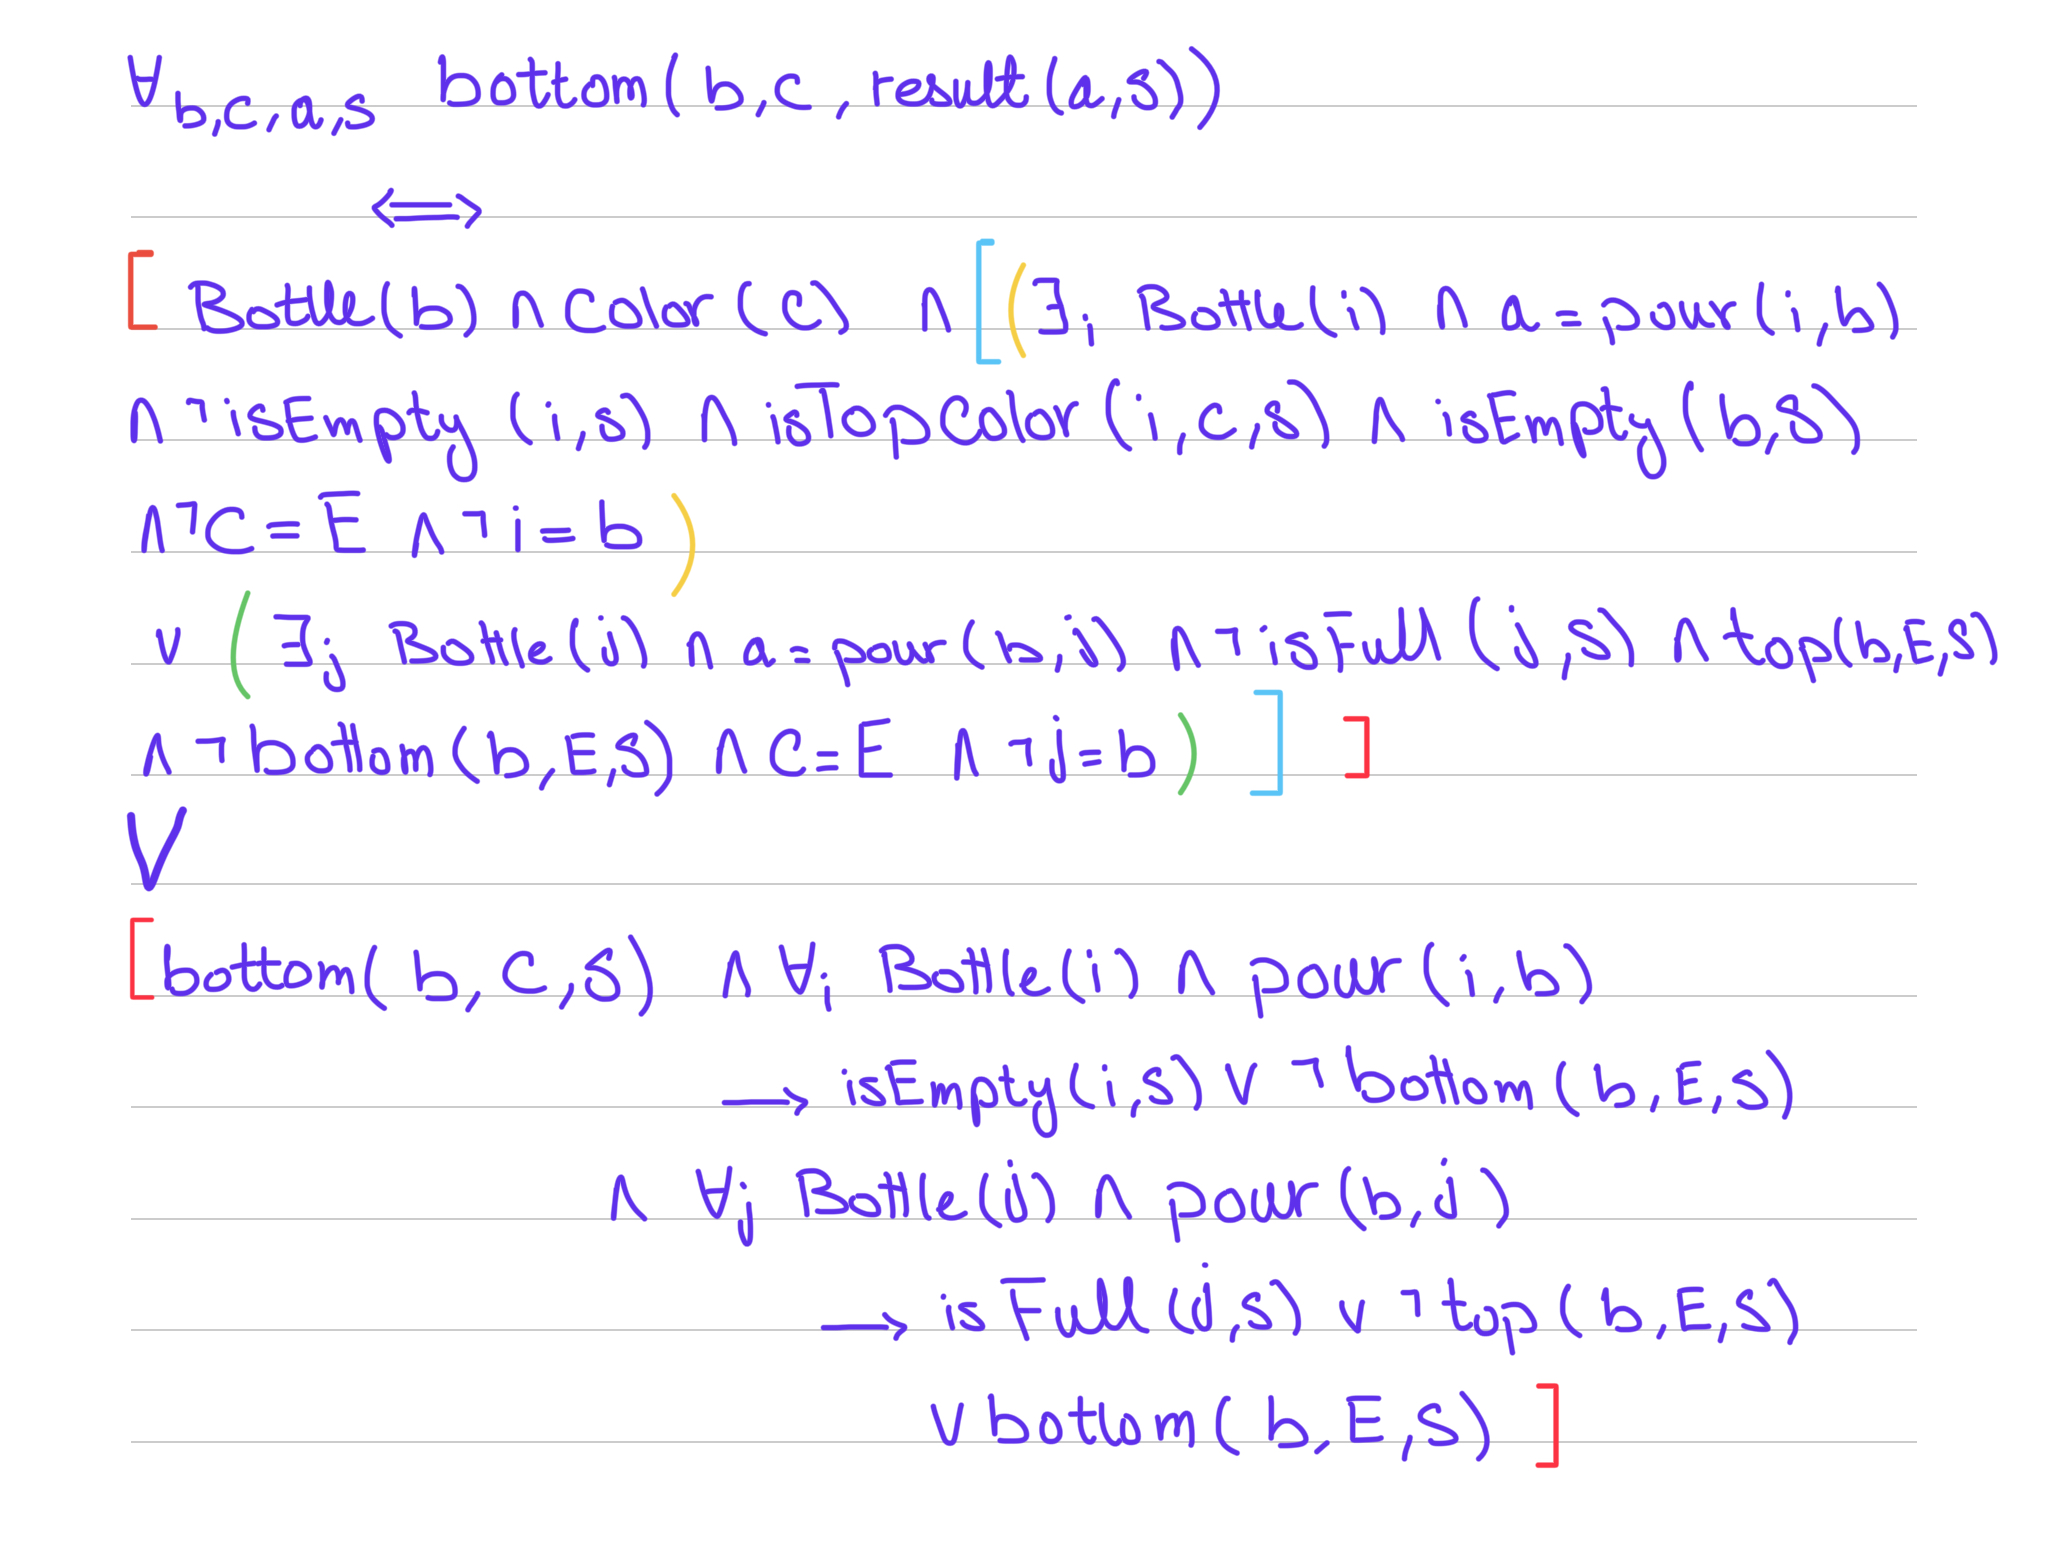
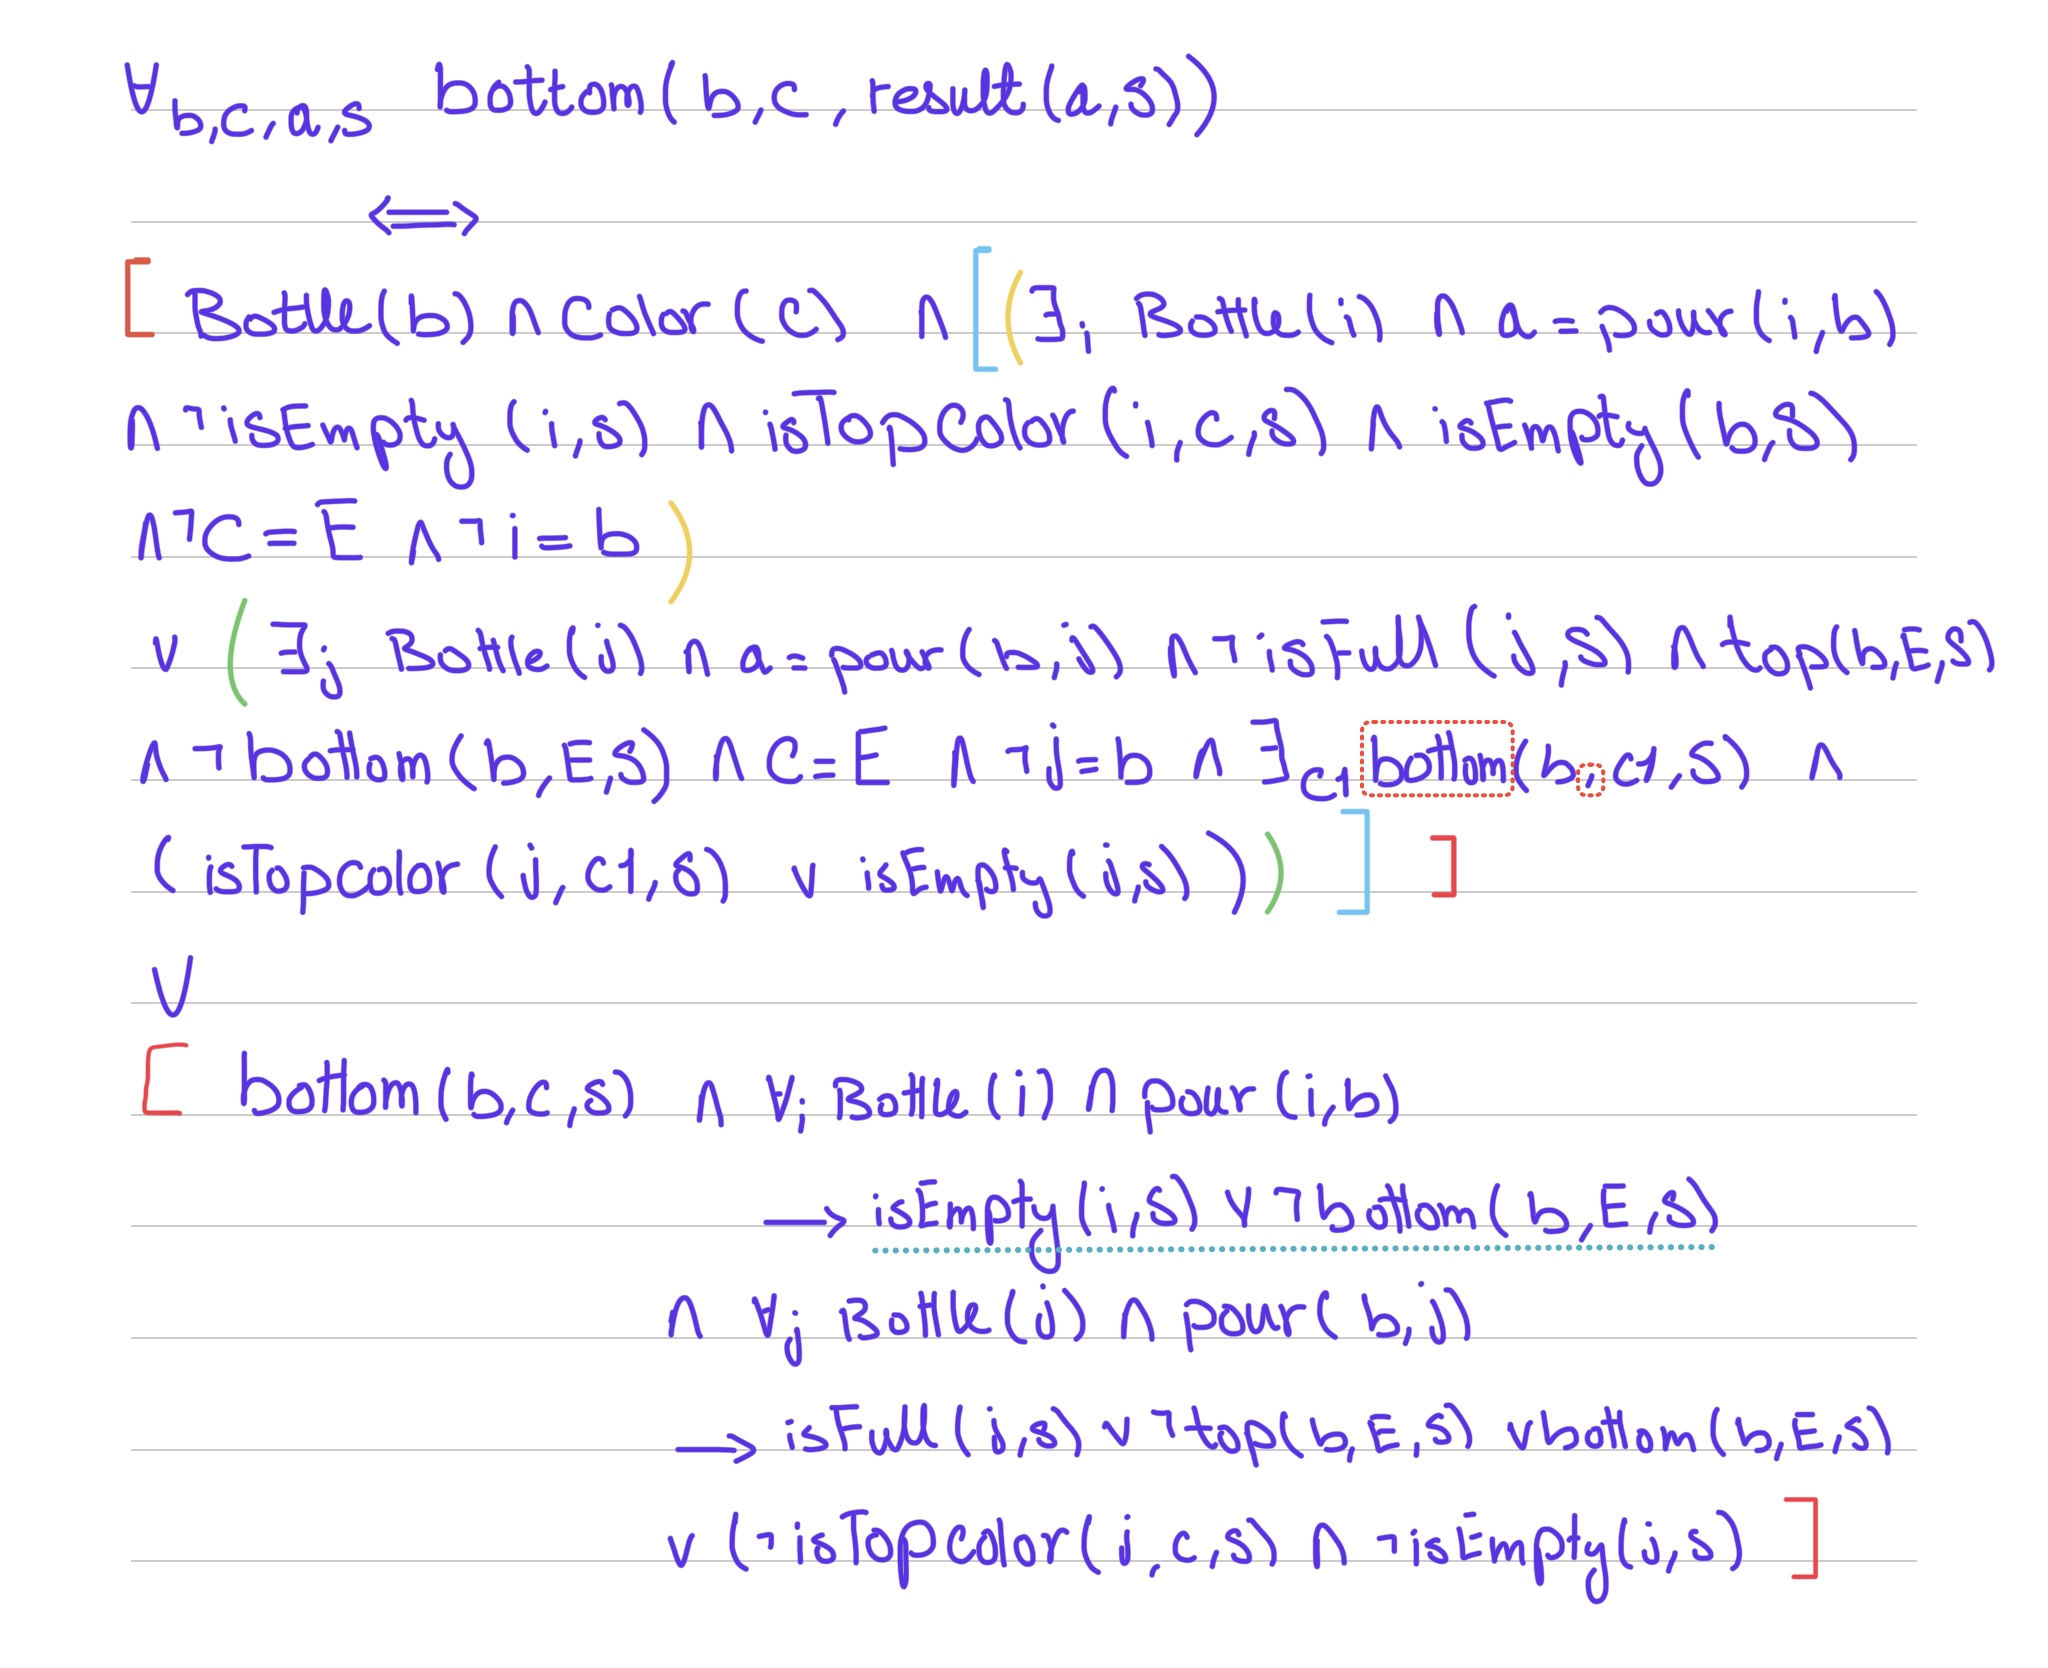
feat: update to accommodate same color pour only and add dynamic colors

Changed region(s): [[0.0625, 0.1243, 0.9688, 0.8699], [0.3125, 0.901, 0.9062, 0.9631], [0.0625, 0.0311, 0.5938, 0.0932]]

diff --git a/readme.md b/readme.md
@@ -28,16 +28,16 @@ Successor state axioms the answer to the question if we fluent is f(_,S) true wh
 
 1. Effect: The top layer of the bottle b is color c in the result of action a in the situation result(a,s) if and only if 
     - the top layer of the bottle b is not color c in the situation s and (the OR of statement 1 and 2)
-        - Statement 1: there exists another bottle b1 , the action a is pouring from b1 to b, b1 is not empty, the topmost **(either top layer or top is empty and bottom is the topmost layer)** layer of b1 is color c, the bottom layer of b is not empty , the top layer of b is empty , the color we are pouring is not representing the empty color and b and b1 are not the same bottle.
+        - Statement 1: there exists another bottle b1 , the action a is pouring from b1 to b, b1 is not empty, the topmost **(either top layer or top is empty and bottom is the topmost layer)** layer of b1 is color c, the bottom layer of b is the same color c, the top layer of b is empty , the color we are pouring is not representing the empty color and b and b1 are not the same bottle.
         
-        - Statement 2: there exists another bottle b1 , the action a is pouring from b to b1, the color is representing empty color, the top layer of b is not empty , b1 is not full and b and b1 are not the same bottle.
+        - Statement 2: there exists another bottle b1 , the action a is pouring from b to b1, the color is representing empty color, the top layer of b is not empty , b1 is not full , b and b1 are not the same bottle, and the color of at the top of bottle b is the same top layer color of b1 or b1 is empty.
 
 
 2. Frame: The top layer of the bottle b is color c in the result of action a in the situation result(a,s) if and only if 
     - the top layer of the bottle b is color c in the situation s and (the OR of statement 1 and 2 and 3)
-        - Statement 1: for all the bottles b1, if the action a is pouring from b to b1 then the action fails or does not affect the top layer of the bottle b so either b1 is full or the top layer of b is empty.
+        - Statement 1: for all the bottles b1, if the action a is pouring from b to b1 then the action fails or does not affect the top layer of the bottle b so either b1 is full or the top layer of b is empty or b1 top layer is not c and it's not empty too.
         
-        - Statement 2: for all the bottles b1, if the action a is pouring from b1 to b then the action fails or does not affect the top layer of the bottle b so either b1 is empty or the top layer of b is not empty or the bottom layer of b is empty.
+        - Statement 2: for all the bottles b1, if the action a is pouring from b1 to b then the action fails or does not affect the top layer of the bottle b so either b1 is empty or the top layer of b is not empty or the bottom layer of b is empty or the top layer of b and b1 is not the same.
         
         - Statement 3: for all the bottles b1 and bottles b2, if the action a is pouring then b1 and b2 are both not equal to b so we do not have any effect on b.
 
@@ -45,13 +45,13 @@ Successor state axioms the answer to the question if we fluent is f(_,S) true wh
 
 1. Effect: The bottom layer of the bottle b is color c in the result of action a in the situation result(a,s) if and only if 
     - the bottom layer of the bottle b is not color c in the situation s and (the OR of statement 1 and 2)
-        - Statement 1: there exists another bottle b1 , the action a is pouring from b1 to b, b1 is not empty, the topmost **(either top layer or top is empty and bottom is the topmost layer)** layer of b1 is color c, bottle b is empty , the color we are pouring is not representing the empty color and b and b1 are not the same bottle.
+        - Statement 1: there exists another bottle b1 , the action a is pouring from b1 to b, b1 is not empty, the topmost **(either top layer or top is empty and bottom is the topmost layer)** layer of b1 is color c, bottle b is empty , the color we are pouring is not representing the empty color , b and b1 are not the same bottle and the color of at the top of bottle b is the same top layer color of b1 or b1 is empty.
         
         - Statement 2: there exists another bottle b1 , the action a is pouring from b to b1, the color is representing empty color, the top layer of b is not empty , b1 is not full and b and b1 are not the same bottle.
 
 2. Frame: The bottom layer of the bottle b is color c in the result of action a in the situation result(a,s) if and only if 
     - the bottom layer of the bottle b is color c in the situation s and (the OR of statement 1 and 2 and 3)
-        - Statement 1: for all the bottles b1, if the action a is pouring from b to b1 then the action fails or does not affect the bottom layer of the bottle b so either b1 is full or the top layer of b is not empty or the bottom layer of b is empty.
+        - Statement 1: for all the bottles b1, if the action a is pouring from b to b1 then the action fails or does not affect the bottom layer of the bottle b so either b1 is full or the top layer of b is not empty or the bottom layer of b is empty or the top layer of b and b1 is not the same and b1 is not empty.
         
         - Statement 2: for all the bottles b1, if the action a is pouring from b1 to b then the action fails or does not affect the bottom layer of the bottle b so either b1 is empty or the bottom layer of b is empty or the bottom layer of b is not empty.
         
@@ -65,7 +65,62 @@ Successor state axioms the answer to the question if we fluent is f(_,S) true wh
 - Bottom Fluent
 <img src="./FOL/bottom.jpg" alt="bottom" width="500"/>
 
+#### 4. Implementation Details:
 
-#### 4. Examples and run time:
+##### bottle/1 : 
+This predicate is used to represent the bottles in the puzzle. We have 3 bottles in the puzzle.
+```prolog
+bottle(1).
+bottle(2).
+bottle(3).
+```    
+##### color/1 :
 
-- add later..................
+This predicate is used to represent the colors in the puzzle it's asserted dynamically when the code is intialized after we extract the colors from the KB and assert the unique elements colors to our KB.
+
+##### situation/1 :
+A predicate definition of the situation as either base case s0 or recursive definition as result(a,s). In the implementation we added two definitions for the recursive case so when we generate the path t goal we limit the actions to valid actions only for a more optimized solution while we make use of the second definition to accept true plans that has invalid actions tha are handled by the frame part of the successor state notation.
+
+##### isGoal/1 :
+A predicate that builds the plan that matches the goal where we aim that the top and bottom layer of each layer are the same. So we call situation(S) first so we backtrack on a situation check if it reaches the goal or not and if not we keep backtracking till we find a solution.
+
+##### goal/1:
+A wrapper predicate that call the is_goal predicate but with using ids to backtrack.
+
+#### Helper Predicates :
+
+##### isTopColor /3 , isEmpty/2 , isFull/2 :
+The 3 predicates are a direct translation to prolog from their definition in the previous section.
+
+##### Fluents
+
+##### top/3 , bottom/3 :
+The 2 fluents are also a direct translation to prolog from their definition in the previous section.
+
+#### 5. Examples and run time:
+
+- Intial KB :
+```prolog
+bottle1(e,g).
+bottle2(y,g).
+bottle3(e,y).
+```
+- Query 1 : **goal(S)**
+- Output 1 : **S = result(pour(1, 2), result(pour(2, 3), s0)).**
+- Time in ms : **0.0013**
+
+- Query 2 : **goal(result(pour(1, 2), result(pour(2, 3), s0))).**
+- Output 2 : **true**
+- Time in ms : **0.00025**
+
+- Query 3 : **goal(result(pour(2, 1), result(pour(2, 3), s0))).**
+- Output 3 : **true**
+- Time in ms : **0.00057**
+
+- Query 4 : **goal(result(pour(2, 1), result(pour(1, 3), s0))).**
+- Output 4 : **false**
+- Time in ms : **0.00031**
+
+- Query 5 : **goal(result(pour(1, 3), result(pour(2, 3), result(pour(1, 2), result(pour(1, 3), s0))))).**
+- Output 5 : **false**
+- Time in ms : **0.0048**
